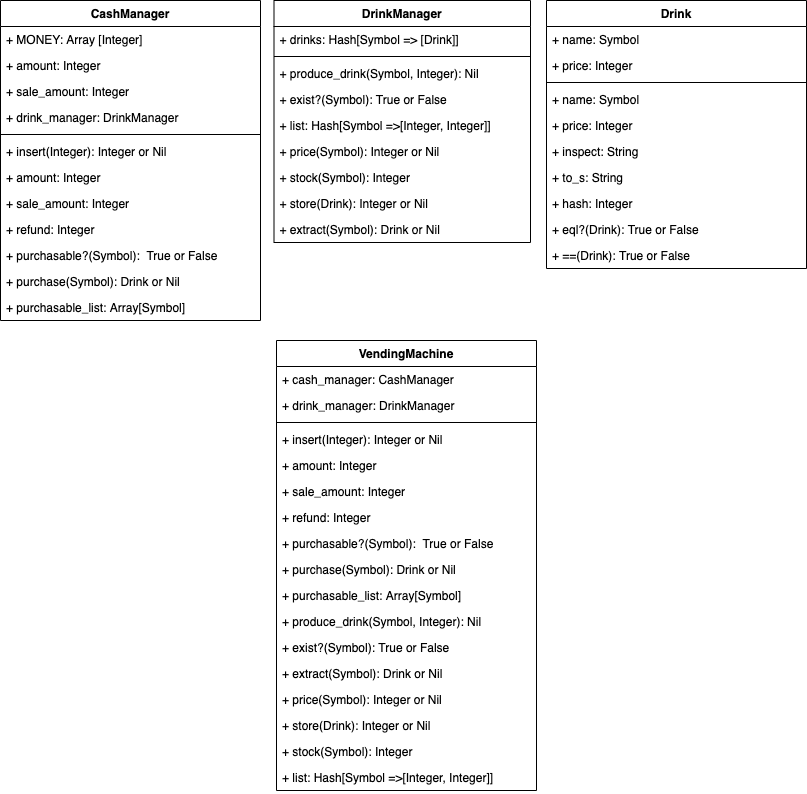
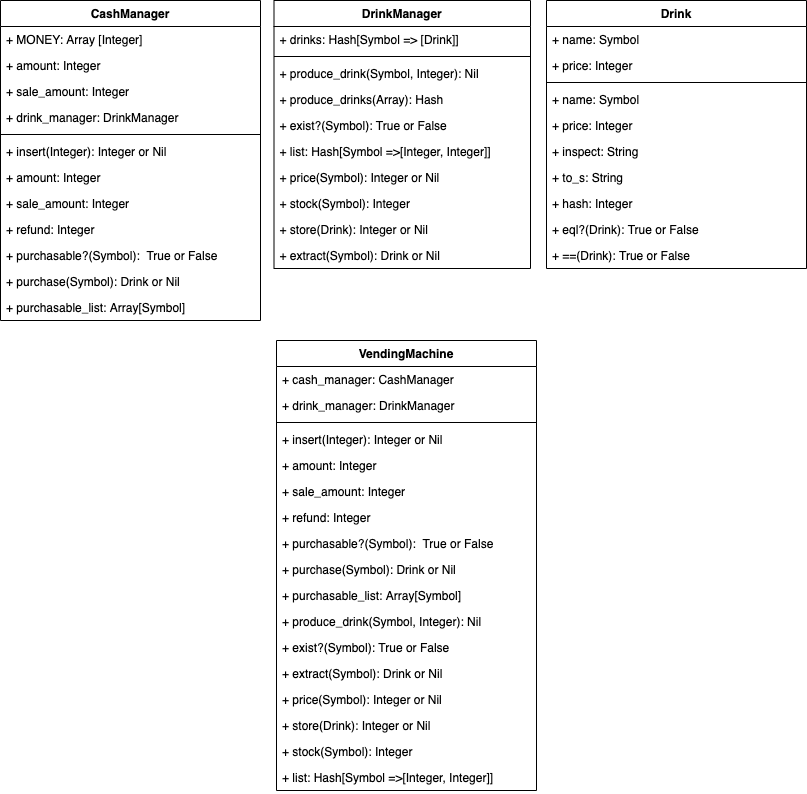
remove:initializeでの操作をメソッド化

Changed region(s): [[0.3408, 0.1209, 0.6196, 0.3325]]

diff --git a/lib/drink_manager.rb b/lib/drink_manager.rb
@@ -2,9 +2,7 @@ require_relative "drink"
 
 class DrinkManager
   def initialize(initial_list = [[:coke, 120, 5], [:water, 100, 5], [:redbull, 200, 5]])
-    @drinks = Hash.new{|hash, key| hash[key] = []}
-    initial_list.each{|name, price, _| produce_drink(name, price)}
-    initial_list.each{|name, _, count| @drinks[name] = [Drink.send(name)] * count}
+    @drinks = produce_drinks(initial_list)
   end
 
   def exist?(name)
@@ -49,5 +47,15 @@ class DrinkManager
     Drink.define_singleton_method(name) do
       Drink.new(name, price)
     end
+  end
+
+  def produce_drinks(initial_list)
+    # 初期値を空のArrayとしたHashを準備
+    drinks = Hash.new{|hash, key| hash[key] = []}
+    # Drink.名前のクラスメソッドを作成
+    initial_list.each{|name, price, _| produce_drink(name, price)}
+    # drinksにnameをkeyとし、Drinkクラスのインスタンスを配列にしたHashを生成
+    initial_list.each{|name, _, count| drinks[name] += [Drink.send(name)] * count}
+    drinks
   end
 end
